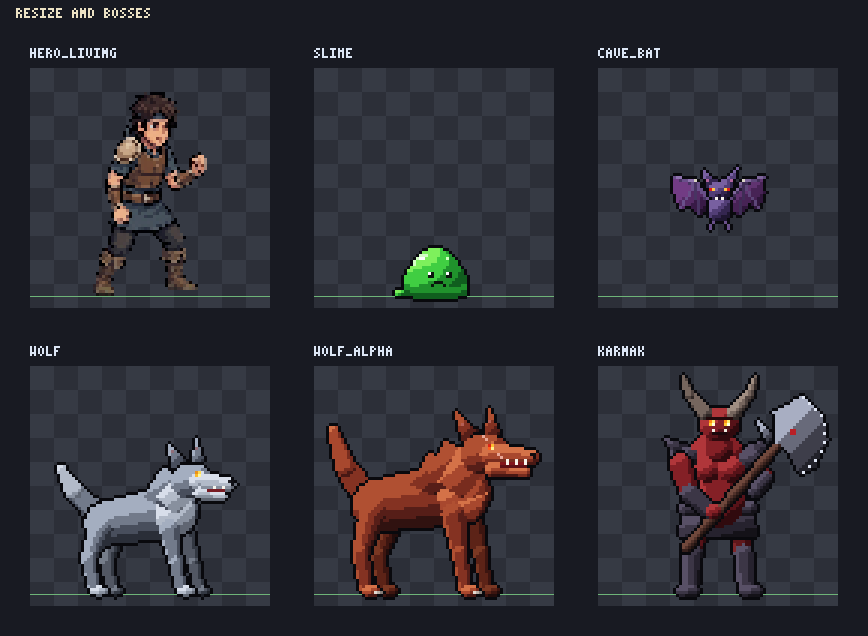
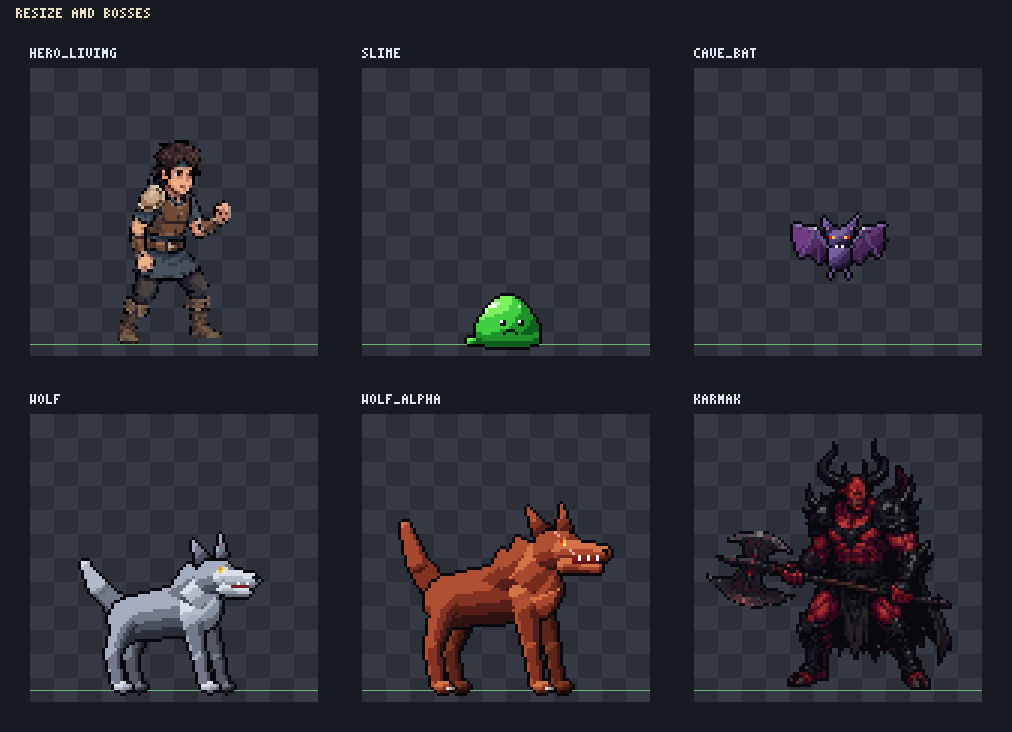
T-096 refazer sprite base de Karnak fiel a referencia e atualizar preview (BRF-083)

diff --git a/scripts/art/buildMonstersBase.py b/scripts/art/buildMonstersBase.py
@@ -9,8 +9,10 @@ ao lado do Heroi (hero_living_base.png).
 
 from __future__ import annotations
 
+from collections import deque
 import math
 import struct
+import subprocess
 import zlib
 from pathlib import Path
 from typing import Dict, List, Optional, Sequence, Tuple
@@ -957,143 +959,143 @@ def build_wolf_alpha_base() -> Canvas:
 # 7. KARNAK (Demonio escuro/vermelho com machado grande, maior que o Heroi)
 # ---------------------------------------------------------------------------
 
+def _ensure_karnak_ref_png() -> Path:
+    ref_png = MONSTERS_DIR / "karnak_ref.png"
+    if ref_png.exists():
+        return ref_png
+    ref_jpg = MONSTERS_DIR / "karnak_ref.jpg"
+    if not ref_jpg.exists():
+        raise FileNotFoundError(f"Referencia nao encontrada: {ref_jpg}")
+    ps = (
+        "Add-Type -AssemblyName System.Drawing; "
+        f"$img = [System.Drawing.Image]::FromFile('{ref_jpg}'); "
+        f"$img.Save('{ref_png}', [System.Drawing.Imaging.ImageFormat]::Png); "
+        "$img.Dispose()"
+    )
+    subprocess.run(["powershell", "-NoProfile", "-Command", ps], check=True)
+    return ref_png
+
+
 def build_karnak_base() -> Canvas:
-    pal_skin: Pal4 = (
-        (48, 10, 14),
-        (86, 18, 24),
-        (132, 32, 38),
-        (176, 54, 58),
-    )
-    pal_skin_dark = dim_palette(pal_skin, 0.72)
-    pal_armor: Pal4 = (
-        (20, 18, 24),
-        (38, 34, 46),
-        (60, 54, 70),
-        (88, 80, 102),
-    )
-    pal_horn: Pal4 = (
-        (46, 38, 36),
-        (78, 66, 62),
-        (118, 102, 94),
-        (160, 142, 130),
-    )
-    pal_axe_blade: Pal4 = (
-        (34, 34, 42),
-        (62, 62, 74),
-        (104, 106, 122),
-        (168, 174, 194),
-    )
-    pal_axe_haft: Pal4 = (
-        (30, 18, 16),
-        (54, 32, 28),
-        (82, 50, 42),
-        (112, 72, 60),
-    )
+    ref = read_png(_ensure_karnak_ref_png())
+    w, h = ref.w, ref.h
+    bg_r, bg_g, bg_b, _ = ref.get(0, 0)
 
-    # 1. Camada traseira: perna direita + braco esquerdo segurando o cabo
-    back = Canvas(FW, FH)
-    draw_capsule(back, (46, 50), (48, 62), 3.6, 3.0, pal_skin_dark)
-    draw_capsule(back, (48, 62), (49, 73), 3.0, 2.8, pal_armor)
-    draw_ellipse(back, 50.5, 74.5, 4.2, 2.0, pal_armor)
-    # Braco esquerdo (fundo) alcancando o cabo do machado
-    draw_capsule(back, (50, 31), (55, 37), 3.4, 2.8, pal_skin_dark)
-    draw_capsule(back, (55, 37), (52, 41), 2.8, 2.5, pal_armor)
-    back_out = add_outline(back, OUTLINE)
+    # 1. Flood-fill do fundo cinza a partir das bordas (incluindo sombra do chao)
+    bg_mask = bytearray(w * h)
+    q: deque[Tuple[int, int]] = deque()
+    for x in range(w):
+        q.append((x, 0))
+        q.append((x, h - 1))
+    for y in range(h):
+        q.append((0, y))
+        q.append((w - 1, y))
 
-    # 2. Camada principal: corpo demoníaco, armadura, perna frontal, chifres
-    body = Canvas(FW, FH)
-    # Perna esquerda (frontal)
-    draw_capsule(body, (33, 50), (31, 62), 3.8, 3.2, pal_skin)
-    draw_capsule(body, (31, 62), (30, 73), 3.2, 2.9, pal_armor)
-    draw_ellipse(body, 29.5, 74.5, 4.3, 2.0, pal_armor)
+    def is_bg_pixel(x: int, y: int) -> bool:
+        r, g, b, _ = ref.get(x, y)
+        chroma = max(r, g, b) - min(r, g, b)
+        if abs(r - bg_r) <= 22 and abs(g - bg_g) <= 22 and abs(b - bg_b) <= 22 and chroma <= 18:
+            return True
+        if y >= 880 and r <= 65 and g <= 68 and b <= 72 and chroma <= 16:
+            if not (r <= 14 and g <= 14 and b <= 16):
+                return True
+        return False
 
-    # Tanga/saiote e cinto de guerra
-    draw_polygon_shaded(body, [(28, 47), (51, 47), (53, 57), (26, 57)], pal_armor)
-    draw_capsule(body, (29, 47), (50, 47), 2.4, 2.4, pal_armor)
-    # Fivela carmesim no cinto
-    for bx in range(38, 43):
-        for by in range(46, 49):
-            body.put(bx, by, (195, 38, 42, 255))
+    while q:
+        x, y = q.popleft()
+        idx = y * w + x
+        if bg_mask[idx] or not is_bg_pixel(x, y):
+            continue
+        bg_mask[idx] = 1
+        if x > 0:
+            q.append((x - 1, y))
+        if x < w - 1:
+            q.append((x + 1, y))
+        if y > 0:
+            q.append((x, y - 1))
+        if y < h - 1:
+            q.append((x, y + 1))
 
-    # Tronco largo e musculoso
-    draw_capsule(body, (39, 31), (40, 45), 9.6, 8.2, pal_skin)
-    draw_ellipse(body, 36.0, 34.0, 5.0, 4.2, pal_skin)
-    draw_ellipse(body, 44.0, 34.0, 4.8, 4.2, pal_skin)
+    # 2. Remove pequenos bolsoes internos fechados com a cor exata do fundo cinza
+    for y in range(h):
+        for x in range(w):
+            idx = y * w + x
+            if bg_mask[idx]:
+                continue
+            r, g, b, _ = ref.get(x, y)
+            if 40 <= r <= 52 and 44 <= g <= 56 and 48 <= b <= 62 and (max(r, g, b) - min(r, g, b)) <= 12:
+                bg_mask[idx] = 1
 
-    # Ombreiras de ferro negro com pontas
-    draw_ellipse(body, 28.0, 30.0, 4.8, 3.8, pal_armor)
-    draw_polygon_shaded(body, [(25, 29), (21, 23), (29, 26)], pal_armor)
-    draw_ellipse(body, 51.0, 30.0, 4.6, 3.8, pal_armor)
-    draw_polygon_shaded(body, [(50, 26), (57, 23), (54, 29)], pal_armor)
+    # 3. Bounding box do foreground
+    xs = [x for y in range(h) for x in range(w) if not bg_mask[y * w + x]]
+    ys = [y for y in range(h) for x in range(w) if not bg_mask[y * w + x]]
+    min_x, max_x = min(xs), max(xs)
+    min_y, max_y = min(ys), max(ys)
+    fg_w = max_x - min_x + 1
+    fg_h = max_y - min_y + 1
 
-    # Cabeca demoníaca e chifres grandes (topo em y=2, altura total ~75 px)
-    draw_capsule(body, (39, 23), (40, 27), 4.0, 4.5, pal_skin)
-    draw_ellipse(body, 40.0, 19.0, 6.4, 5.8, pal_skin)
+    # 4. Downscale crisp para 96x96 (altura ~84px > Heroi 68px, cascos em y=91, chao em y=92)
+    out_w, out_h = 96, 96
+    target_h = 84
+    target_w = max(1, round(fg_w * (target_h / fg_h)))
+    dx0 = (out_w - target_w) // 2
+    dy0 = 92 - target_h
 
-    # Chifres curvos
-    draw_capsule(body, (35, 15), (30, 9), 2.4, 1.7, pal_horn)
-    draw_capsule(body, (30, 9), (28, 3), 1.6, 0.9, pal_horn)
-    draw_capsule(body, (45, 15), (50, 9), 2.4, 1.7, pal_horn)
-    draw_capsule(body, (50, 9), (52, 3), 1.6, 0.9, pal_horn)
+    raw_cv = Canvas(out_w, out_h)
+    for ty in range(target_h):
+        sy0 = min_y + int(ty * fg_h / target_h)
+        sy1 = min(max_y + 1, min_y + max(sy0 - min_y + 1, int((ty + 1) * fg_h / target_h)))
+        for tx in range(target_w):
+            sx0 = min_x + int(tx * fg_w / target_w)
+            sx1 = min(max_x + 1, min_x + max(sx0 - min_x + 1, int((tx + 1) * fg_w / target_w)))
 
-    # Olhos incandescentes + sobrancelha franzida escura
-    for bx in range(36, 45):
-        body.put(bx, 17, (34, 8, 10, 255))
-    for ex in (37, 42):
-        body.put(ex, 18, (255, 140, 20, 255))
-        body.put(ex + 1, 18, (255, 235, 110, 255))
-        body.put(ex, 19, (255, 200, 50, 255))
-        body.put(ex + 1, 19, (255, 255, 220, 255))
+            fg_cols: List[Tuple[int, int, int, int]] = []
+            total = 0
+            for sy in range(sy0, sy1):
+                for sx in range(sx0, sx1):
+                    total += 1
+                    if not bg_mask[sy * w + sx]:
+                        r, g, b, _ = ref.get(sx, sy)
+                        fg_cols.append((r + g + b, r, g, b))
 
-    # Boca escura e presas inferiores
-    for mx in range(38, 43):
-        body.put(mx, 22, (28, 8, 12, 255))
-    body.put(38, 21, (242, 236, 225, 255))
-    body.put(42, 21, (242, 236, 225, 255))
+            if not fg_cols or len(fg_cols) < total * 0.36:
+                continue
 
-    body_out = add_outline(body, OUTLINE)
+            non_halo = [
+                c for c in fg_cols
+                if not (34 <= c[1] <= 58 and 38 <= c[2] <= 62 and 42 <= c[3] <= 66 and (max(c[1], c[2], c[3]) - min(c[1], c[2], c[3])) <= 14)
+            ]
+            pool = non_halo if non_halo else fg_cols
+            pool.sort(key=lambda c: c[0])
 
-    # 3. Camada frontal: machado gigante + braco direito (frontal)
-    front = Canvas(FW, FH)
-    # Cabo longo diagonal do machado
-    draw_capsule(front, (29, 60), (63, 22), 1.6, 1.6, pal_axe_haft)
+            darks = [c for c in pool if c[0] < 54]
+            if len(darks) >= len(pool) * 0.55:
+                chosen = darks[len(darks) // 2]
+                col = OUTLINE if chosen[0] < 42 else (chosen[1], chosen[2], chosen[3], 255)
+            else:
+                chosen = pool[len(pool) // 2]
+                col = (chosen[1], chosen[2], chosen[3], 255)
 
-    # Cabeca do machado: esporao traseiro + lamina crescente de guerra
-    draw_polygon_shaded(front, [(58, 22), (52, 17), (56, 26)], pal_axe_blade)
-    axe_pts = [
-        (59, 21),
-        (58, 15),
-        (68, 9),
-        (74, 15),
-        (76, 24),
-        (72, 33),
-        (67, 36),
-        (63, 28),
-        (59, 25),
-    ]
-    draw_polygon_shaded(front, axe_pts, pal_axe_blade)
-    # Fio brilhante na borda externa crescente da lamina
-    for fx, fy in (
-        (68, 10), (70, 12), (72, 14), (74, 16), (75, 19),
-        (75, 22), (75, 25), (74, 28), (72, 31), (70, 33), (68, 35),
-    ):
-        front.put(fx, fy, (224, 230, 244, 255))
-    # Detalhe carmesim no nucleo da lamina
-    for rx, ry in ((64, 21), (65, 21), (64, 22), (65, 22)):
-        front.put(rx, ry, (185, 32, 38, 255))
+            raw_cv.put(dx0 + tx, dy0 + ty, col)
 
-    # Braco direito (frontal) segurando o cabo
-    draw_capsule(front, (27, 32), (30, 42), 3.6, 3.0, pal_skin)
-    draw_capsule(front, (30, 42), (37, 48), 3.0, 2.7, pal_armor)
-    draw_ellipse(front, 38.0, 48.0, 2.8, 2.5, pal_skin)
+    cleaned = remove_isolated_pixels(raw_cv)
 
-    front_out = add_outline(front, OUTLINE)
+    # 5. Limpa halo residual nas bordas externas e garante contorno 1px escuro
+    final_cv = cleaned.copy()
+    for y in range(out_h):
+        for x in range(out_w):
+            c = cleaned.get(x, y)
+            if c[3] == 0:
+                continue
+            is_edge = False
+            for nx, ny in ((x - 1, y), (x + 1, y), (x, y - 1), (x, y + 1)):
+                if not (0 <= nx < out_w and 0 <= ny < out_h) or cleaned.get(nx, ny)[3] == 0:
+                    is_edge = True
+                    break
+            if is_edge and (c[0] + c[1] + c[2]) <= 120:
+                final_cv.put(x, y, OUTLINE)
 
-    res = Canvas(FW, FH)
-    res.composite(back_out)
-    res.composite(body_out)
-    res.composite(front_out)
-    return remove_isolated_pixels(res)
+    return final_cv
 
 
 # ---------------------------------------------------------------------------
@@ -1151,8 +1153,10 @@ def build_comparison_sheet(
 ) -> Canvas:
     cols = 3
     rows = max(1, (len(entries) + cols - 1) // cols)
-    cell_w = FW * scale + 28
-    cell_h = FH * scale + 42
+    box_dim_w = max(spr.w for _, spr in entries)
+    box_dim_h = max(spr.h for _, spr in entries)
+    cell_w = box_dim_w * scale + 28
+    cell_h = box_dim_h * scale + 42
     pad = 16
     total_w = cols * cell_w + (cols + 1) * pad
     total_h = rows * cell_h + (rows + 1) * pad + 24
@@ -1160,6 +1164,7 @@ def build_comparison_sheet(
     sheet = Canvas(total_w, total_h, (24, 26, 34, 255))
     draw_text(sheet, pad, 8, title, (235, 225, 195, 255), scale=2)
 
+    guide_foot_y = box_dim_h - 4
     for idx, (label, spr) in enumerate(entries):
         c = idx % cols
         r = idx // cols
@@ -1167,8 +1172,8 @@ def build_comparison_sheet(
         y0 = 28 + pad + r * (cell_h + pad)
 
         # Fundo xadrez neutro dentro da celula
-        box_w = FW * scale
-        box_h = FH * scale
+        box_w = box_dim_w * scale
+        box_h = box_dim_h * scale
         bx0 = x0 + (cell_w - box_w) // 2
         by0 = y0 + 24
         for py in range(box_h):
@@ -1177,20 +1182,23 @@ def build_comparison_sheet(
                 bg = (54, 58, 68, 255) if checker else (44, 47, 56, 255)
                 sheet.put(bx0 + px, by0 + py, bg)
 
-        # Linha guia do chao (y = 76)
-        gy = by0 + FOOT_Y * scale
+        # Linha guia do chao (alinhada para 80x80 y=76 e 96x96 y=92)
+        gy = by0 + guide_foot_y * scale
         for px in range(box_w):
             sheet.put(bx0 + px, gy, (110, 180, 120, 255))
 
-        # Sprite ampliado nearest-neighbor
-        for sy in range(FH):
-            for sx in range(FW):
+        # Sprite ampliado nearest-neighbor alinhado pelo centro X e linha do chao
+        spr_foot_y = spr.h - 4
+        ox = (box_dim_w - spr.w) // 2
+        oy = guide_foot_y - spr_foot_y
+        for sy in range(spr.h):
+            for sx in range(spr.w):
                 col = spr.get(sx, sy)
                 if col[3] == 0:
                     continue
                 for dy in range(scale):
                     for dx in range(scale):
-                        sheet.blend_pixel(bx0 + sx * scale + dx, by0 + sy * scale + dy, col)
+                        sheet.blend_pixel(bx0 + (ox + sx) * scale + dx, by0 + (oy + sy) * scale + dy, col)
 
         draw_text(sheet, bx0, y0 + 4, label, (220, 230, 245, 255), scale=2)
 

diff --git a/docs/decisoes.md b/docs/decisoes.md
@@ -16,4 +16,4 @@ Ordem da fonte da verdade: **Dono > GDD (`docs/GDD_Submundo.md`) > `docs/decisoe
 | 10 | Entrada em Dungeon Escura de Teste e inversão de M7 (UI) / M8 (Mapas) | Decidido | O jogo passa a iniciar diretamente em uma **dungeon escura (sala toda preta)** apenas com o Herói na forma humana (`hero_living`), para adicionar monstros e a nova UI de forma incremental e controlada. Além disso, **M7 (`v0.7.0`)** passa a ser *UI* e **M8 (`v0.8.0`)** passa a ser *Mapas* (Vila e cenários 2.5D). | Definido pelo dono do projeto em 2026-11-18 |
 | 11 | Catálogo dos 5 monstros comuns do M6 (bosses depois) | Decidido | Definir os 5 monstros iniciais com padrão de detalhamento igual ao Herói: (1) **Slime** (nome "Slime" em EN/pt-BR, gosma verde gelatinosa estilo mockup, melee lento básico); (2) **Morcego** (roxo/azul, melee rápido e frágil); (3) **Lobo** (novo, dungeons iniciais do mundo real, cinzento, melee um pouco mais rápido e resistente que o Slime); (4) **Esqueleto** (humanóide esquelético com espada e escudo, melee padrão levemente resistente); (5) **Esqueleto Arqueiro** (humanóide esquelético com arco de madeira, ataque à distância frágil). Bosses serão definidos após esses 5. | Definido pelo dono do projeto em 2026-11-18 |
 | 12 | Dungeons com salas interligadas (caminhar para avançar) | Decidido | Substituir o modelo de teleporte entre andares após limpar uma sala por **mapas com salas interligadas**, onde o jogador caminha de uma sala para a próxima para avançar (implementação planejada para os marcos de Mapas/Campanha). | Definido pelo dono do projeto em 2026-11-18 |
-| 13 | Novo Prólogo (Missões 1, 2 e 3) e Bosses Iniciais (Chefe da Matilha e Karnak) | Decidido | Pontapé inicial: Mestre chama o jogador informando pedidos dos moradores. **Missão 1 (Vendedora de Poções):** plantação de ervas (campo verde/grama), sem boss, 3 salas, Slimes `3/5/7`. **Missão 2 (Ferreiro da Cidade):** mina bem iluminada, 4 salas, Slimes `2/3/5/0`, Lobos `2/2/3/2`, mini-boss na sala 4 (**Chefe da Matilha**: lobo maior, pelagem marrom/vermelha). **Missão 3 (Mestre — Fundo da Mina):** desbloqueia após Missões 1 e 2; caverna menos iluminada, 5 salas, Slimes `2/2/2/0/0`, Morcegos `2/4/4/4/0`, Esqueletos `0/0/0/2/0`, boss invencível na sala 5 (**Karnak**: demônio escuro/vermelho, um pouco maior que o Herói, com machado — reutilizável depois como miniboss ou boss final do Ato 1). Implementar missões só após fechar os monstros/bosses. | Definido pelo dono do projeto em 2026-11-18 |
+| 13 | Novo Prólogo (Missões 1, 2 e 3) e Bosses Iniciais (Chefe da Matilha e Karnak) | Decidido | Pontapé inicial: Mestre chama o jogador informando pedidos dos moradores. **Missão 1 (Vendedora de Poções):** plantação de ervas (campo verde/grama), sem boss, 3 salas, Slimes `3/5/7`. **Missão 2 (Ferreiro da Cidade):** mina bem iluminada, 4 salas, Slimes `2/3/5/0`, Lobos `2/2/3/2`, mini-boss na sala 4 (**Chefe da Matilha**: lobo maior, pelagem marrom/vermelha). **Missão 3 (Mestre — Fundo da Mina):** desbloqueia após Missões 1 e 2; caverna menos iluminada, 5 salas, Slimes `2/2/2/0/0`, Morcegos `2/4/4/4/0`, Esqueletos `0/0/0/2/0` (Esqueleto Arqueiro não entra nesse momento), boss invencível na sala 5 (**Karnak**: demônio escuro/vermelho com machado duplo, baseado na referência aprovada — luta balanceada para durar até o HP do Herói chegar a `0`, com o HP do Karnak intacto/sem mexer). Implementar missões só após fechar os monstros/bosses. | Definido pelo dono do projeto em 2026-11-18 |

diff --git a/docs/briefings/BRF-083_AG08_karnak-base-referencia.md b/docs/briefings/BRF-083_AG08_karnak-base-referencia.md
@@ -1,0 +1,20 @@
+# BRF-083 — AG08 (Arte) — T-096 Refazer Sprite Base do Demônio Karnak com Base na Referência
+
+**Leia:** [docs/agentes/AG08_Arte.md](../agentes/AG08_Arte.md), [scripts/art/buildMonstersBase.py](../../scripts/art/buildMonstersBase.py), `assets/sprites_src/monsters/karnak_ref.jpg`. **Regra:** respostas curtas; **PROIBIDO** editar `src/`, `tests/`, `public/assets/sprites/` ou executar `git`.
+
+**Decisão do dono:** O sprite anterior do Karnak não ficou bom; refazer com base na imagem de referência `assets/sprites_src/monsters/karnak_ref.jpg`:
+- Demônio musculoso vermelho-escuro com chifres grandes curvos segmentados (+ chifrinhos internos), olhos dourados incandescentes;
+- Ombreiras pretas pesadas com espinhos, arreio preto no peito, braçal com espinhos, cinto com fivela, capa/tanga preta esfarrapada, grevas pretas com espinhos e cascos;
+- **Machado duplo grande de ferro escuro com runas vermelhas** empunhado em duas mãos na diagonal.
+
+**Fazer:**
+1. Inspecionar `assets/sprites_src/monsters/karnak_ref.jpg` com `read_file`.
+2. Atualizar `scripts/art/buildMonstersBase.py` para gerar `assets/sprites_src/monsters/karnak_base.png` (`96×96` ou `80×80` — usar `96×96` se precisar para não cortar o machado duplo largo nem os chifres, mantendo o corpo/cabeça **um pouco maior que o Herói `68px`**, ex.: ~`76–82px` de altura total dos cascos ao topo dos chifres, pés/cascos em `y = 92` em `96×96` ou `y = 76` em `80×80`!).
+   - **Dica técnica (como fizemos no Herói `hero_living_base.png`):** Você pode processar `karnak_ref.jpg` em Python stdlib (decodificando ou convertendo via ferramenta/script se necessário — note que `karnak_ref.jpg` é JPEG! Se não houver Pillow instalado no Python 3.14, verifique se há `ffmpeg`/`magick`/`powershell System.Drawing` no Windows para ler o `.jpg` e salvar um PNG intermediário ou extrair os pixels, ou se preferir desenhar/extrair via `.NET System.Drawing` em PowerShell para PNG sem perda!). Remover o fundo cinza conectado às bordas, preservar o contorno preto 1px, fazer downscale limpo (amostragem de bloco / pixel-art crisp sem borrão) para a altura alvo (~`78px`) e ajustar o contorno preto 1px final.
+3. Atualizar `assets/mockups/preview_m6_resize_and_bosses.png` colocando o novo `karnak` ao lado de `hero_living`, `slime`, `cave_bat`, `wolf` e `wolf_alpha` na mesma escala visual!
+4. **Inspecionar `assets/mockups/preview_m6_resize_and_bosses.png` com `read_file`** e iterar até que o Karnak esteja nítido, imponente e fiel à referência (sem halo cinza, sem contorno quebrado, machado e chifres inteiros).
+
+**Permitido:** `scripts/art/buildMonstersBase.py`, `assets/sprites_src/monsters/karnak_base.png` (e PNG intermediário se preciso em `assets/sprites_src/monsters/`), `assets/mockups/preview_m6_resize_and_bosses.png`.
+**Proibido:** `src/`, `tests/`, `public/assets/sprites/`, `docs/`, e qualquer comando `git`.
+
+**Entrega:** até 6 linhas: (1) arquivos atualizados, (2) dimensões do `karnak_base.png` vs Herói, (3) confirmação de inspeção visual, (4) pronto para aprovação do dono.

diff --git a/docs/backlog.md b/docs/backlog.md
@@ -97,4 +97,5 @@
 | T-093 | Salvar dados e narrativa dos 5 novos monstros (*Slime*, *Morcego*, *Lobo*, *Esqueleto*, *Esqueleto Arqueiro*) em `src/data/monsters.json`, `docs/narrativa.md` e suporte a ataque à distância em `src/core/` (tam. M) | M6 | AG04 (Sistemas/Meta) + AG06 (Narrativa) | feita |
 | T-094 | Reduzir pela metade os sprites base de `slime` e `cave_bat` e criar sprites base dos 2 bosses (*Chefe da Matilha* `wolf_alpha` e *Karnak* `karnak`) + prancha de comparação para aprovação do dono (tam. M) | M6 | AG08 (Arte) | feita (aguardando aprovação do dono) |
 | T-095 | Tornar o Herói momentaneamente invencível na `testArena` (`DungeonScene.ts`) mantendo as animações de ataque e projéteis dos monstros para teste ingame (tam. P) | M6 | AG01 (Gameplay) | feita |
+| T-096 | Refazer o sprite base do demônio **Karnak** (`karnak_base.png`) com base na imagem de referência (`assets/sprites_src/monsters/karnak_ref.jpg`) e atualizar `preview_m6_resize_and_bosses.png` para aprovação do dono (tam. P) | M6 | AG08 (Arte) | feita (aguardando aprovação do dono) |
 
